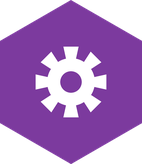
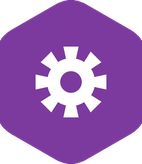
Add Reproducibility Certified (AI/Human) badges
Round the hexagon corners on reprocert_ai/reprocert_human (and fix
codecheck's hexagon, which claimed to match the family but was sharp)
using the same quadratic-bezier corner-cut construction as the other
badges. Give the AI badge a computer glyph and the Human badge a
human-bust glyph in matching positions, both anchored bottom-right of
the shared centered gear.

Wire both badges into the full pipeline: _metadata.yml template,
LaTeX (PNG), HTML title-block (SVG), and both badge maps in the
preview tool (SVG for on-screen render, PNG for the docx export path).

Changed region(s): [[0.0, 0.7317, 0.9859, 1.0], [0.0, 0.0, 1.0, 0.2439], [0.9859, 0.7317, 1.0, 0.7622]]

diff --git a/docs/preview/index.html b/docs/preview/index.html
@@ -275,6 +275,8 @@
         <label><input type="checkbox" id="b-open-materials" /> Materials</label>
         <label><input type="checkbox" id="b-preregistered" /> Prereg.</label>
         <label><input type="checkbox" id="b-codecheck" /> Codecheck</label>
+        <label><input type="checkbox" id="b-reprocert-ai" /> Reproducibility Certified (AI)</label>
+        <label><input type="checkbox" id="b-reprocert-human" /> Reproducibility Certified (Human)</label>
       </div>
     </details>
 
@@ -1446,7 +1448,7 @@ function applyMeta(meta){
   if (r2.volume) set("#m-volume", r2.volume); if (r2.year) set("#m-year", r2.year);
   if (r2["article-type"]) $("#m-type").value = r2["article-type"];
   const b = r2.badges || {};
-  ["open-data","open-code","open-materials","preregistered","codecheck"].forEach(k=>{ if(b[k]) $("#b-"+k).checked=true; });
+  ["open-data","open-code","open-materials","preregistered","codecheck","reprocert-ai","reprocert-human"].forEach(k=>{ if(b[k]) $("#b-"+k).checked=true; });
 }
 /* Builds one "Name" or "Name1,2" line per author from Quarto-style metadata:
    author[].affiliations[].ref is matched against affiliations[].id (in
@@ -1594,7 +1596,8 @@ function render(){
   $("#r2-affils").hidden = !affils.length;
   // badges (codecheck is SVG for crispness)
   const bdef = {"open-data":"opendata.png","open-code":"opencode.png","open-materials":"openmaterial.png",
-                "preregistered":"preregestered.png","codecheck":"codecheck.svg"};
+                "preregistered":"preregestered.png","codecheck":"codecheck.svg",
+                "reprocert-ai":"reprocert_ai.svg","reprocert-human":"reprocert_human.svg"};
   $("#r2-badges").innerHTML = Object.entries(bdef).filter(([k])=>$("#b-"+k).checked)
     .map(([k,img])=>`<img src="../assets/badges/${img}" alt="${k}">`).join("");
   // cards
@@ -1688,7 +1691,8 @@ function buildWordHtml(){
   const affilsHtml = affils.map((a,i)=>`<sup>${i+1}</sup>&nbsp;${esc(a)}`).join("<br/>");
 
   const bdef = {"open-data":"opendata.png","open-code":"opencode.png","open-materials":"openmaterial.png",
-                "preregistered":"preregestered.png","codecheck":"codecheck.png"};   // raster (no SVG in Word)
+                "preregistered":"preregestered.png","codecheck":"codecheck.png",
+                "reprocert-ai":"reprocert_ai.png","reprocert-human":"reprocert_human.png"};   // raster (no SVG in Word)
   const badgeImgs = Object.entries(bdef).filter(([k])=>$("#b-"+k).checked)
     .map(([k,img])=>`<img src="../assets/badges/${img}" alt="${k}" height="34" style="margin:0 3px;">`).join("");
 
@@ -1761,7 +1765,7 @@ $("#reset").addEventListener("click", () => location.reload());
    later without re-uploading or re-typing metadata. */
 const DRAFT_FIELDS = ["m-title","m-authors","m-orcids","m-affils","m-abstract","m-keywords","m-lay",
   "m-accent","m-journal","m-type","m-discipline","m-volume","m-year","m-id","m-doi","m-citation"];
-const DRAFT_CHECKS = ["b-open-data","b-open-code","b-open-materials","b-preregistered","b-codecheck"];
+const DRAFT_CHECKS = ["b-open-data","b-open-code","b-open-materials","b-preregistered","b-codecheck","b-reprocert-ai","b-reprocert-human"];
 
 function openDraftsDB(){
   return new Promise((resolve,reject)=>{

diff --git a/_extensions/r2/html/title-block.html b/_extensions/r2/html/title-block.html
@@ -40,6 +40,8 @@ $if(r2.badges.open-code)$<img src="../../_extensions/r2/resources/badges/opencod
 $if(r2.badges.open-materials)$<img src="../../_extensions/r2/resources/badges/openmaterial.png" alt="Open Materials" />$endif$
 $if(r2.badges.preregistered)$<img src="../../_extensions/r2/resources/badges/preregestered.png" alt="Preregistered" />$endif$
 $if(r2.badges.codecheck)$<img src="../../_extensions/r2/resources/badges/codecheck.svg" alt="CODECHECK" />$endif$
+$if(r2.badges.reprocert-ai)$<img src="../../_extensions/r2/resources/badges/reprocert_ai.svg" alt="Reproducibility Certified (AI)" />$endif$
+$if(r2.badges.reprocert-human)$<img src="../../_extensions/r2/resources/badges/reprocert_human.svg" alt="Reproducibility Certified (Human)" />$endif$
   </div>
 $endif$
 

diff --git a/_extensions/r2/template.tex b/_extensions/r2/template.tex
@@ -295,7 +295,9 @@ $if(r2.badges.open-data)$\includegraphics[height=8mm]{opendata.png}\hspace{0.5em
 $if(r2.badges.open-code)$\includegraphics[height=8mm]{opencode.png}\hspace{0.5em}$endif$%
 $if(r2.badges.open-materials)$\includegraphics[height=8mm]{openmaterial.png}\hspace{0.5em}$endif$%
 $if(r2.badges.preregistered)$\includegraphics[height=8mm]{preregestered.png}\hspace{0.5em}$endif$%
-$if(r2.badges.codecheck)$\includegraphics[height=8mm]{codecheck.png}$endif$%
+$if(r2.badges.codecheck)$\includegraphics[height=8mm]{codecheck.png}\hspace{0.5em}$endif$%
+$if(r2.badges.reprocert-ai)$\includegraphics[height=8mm]{reprocert_ai.png}\hspace{0.5em}$endif$%
+$if(r2.badges.reprocert-human)$\includegraphics[height=8mm]{reprocert_human.png}$endif$%
 \end{center}
 $endif$
 
